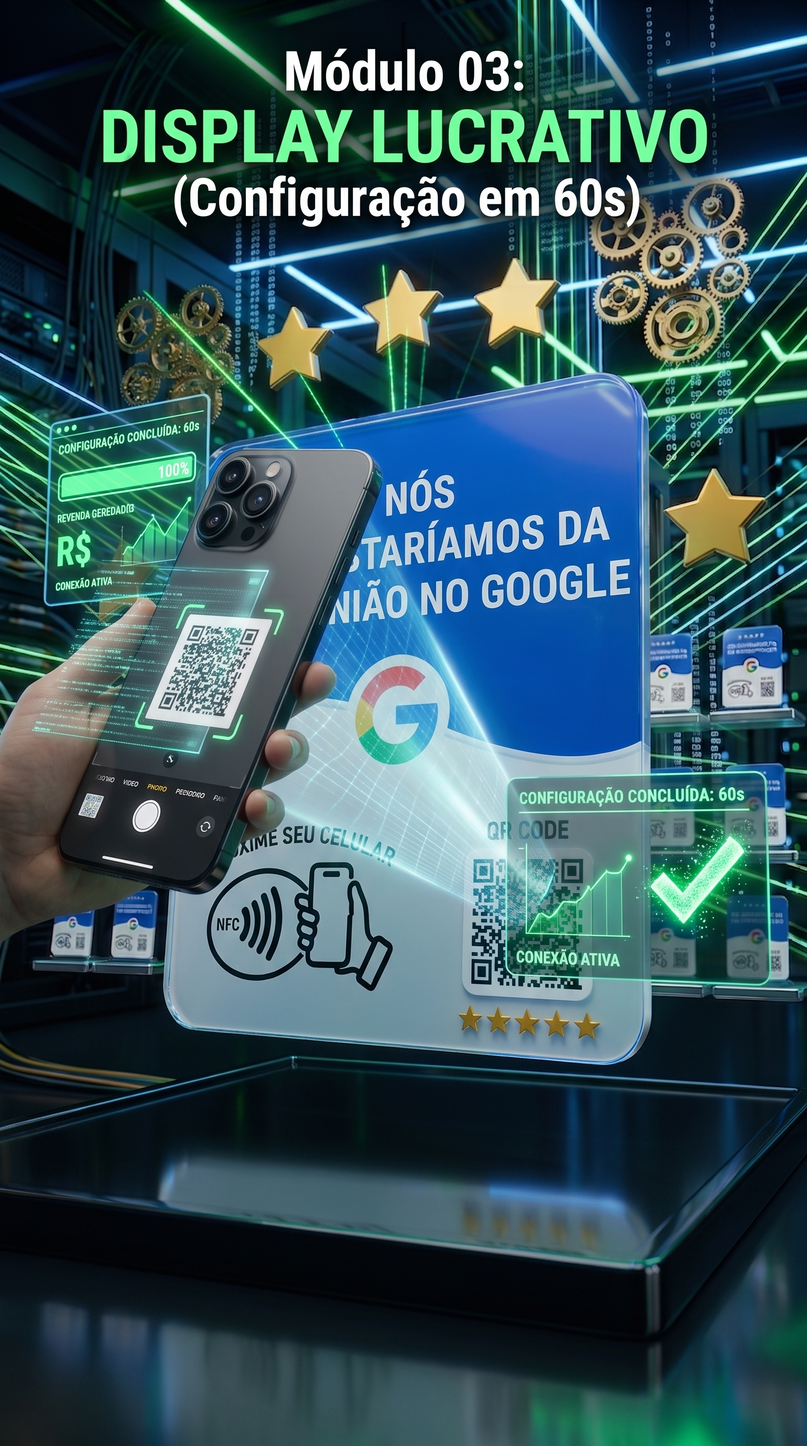
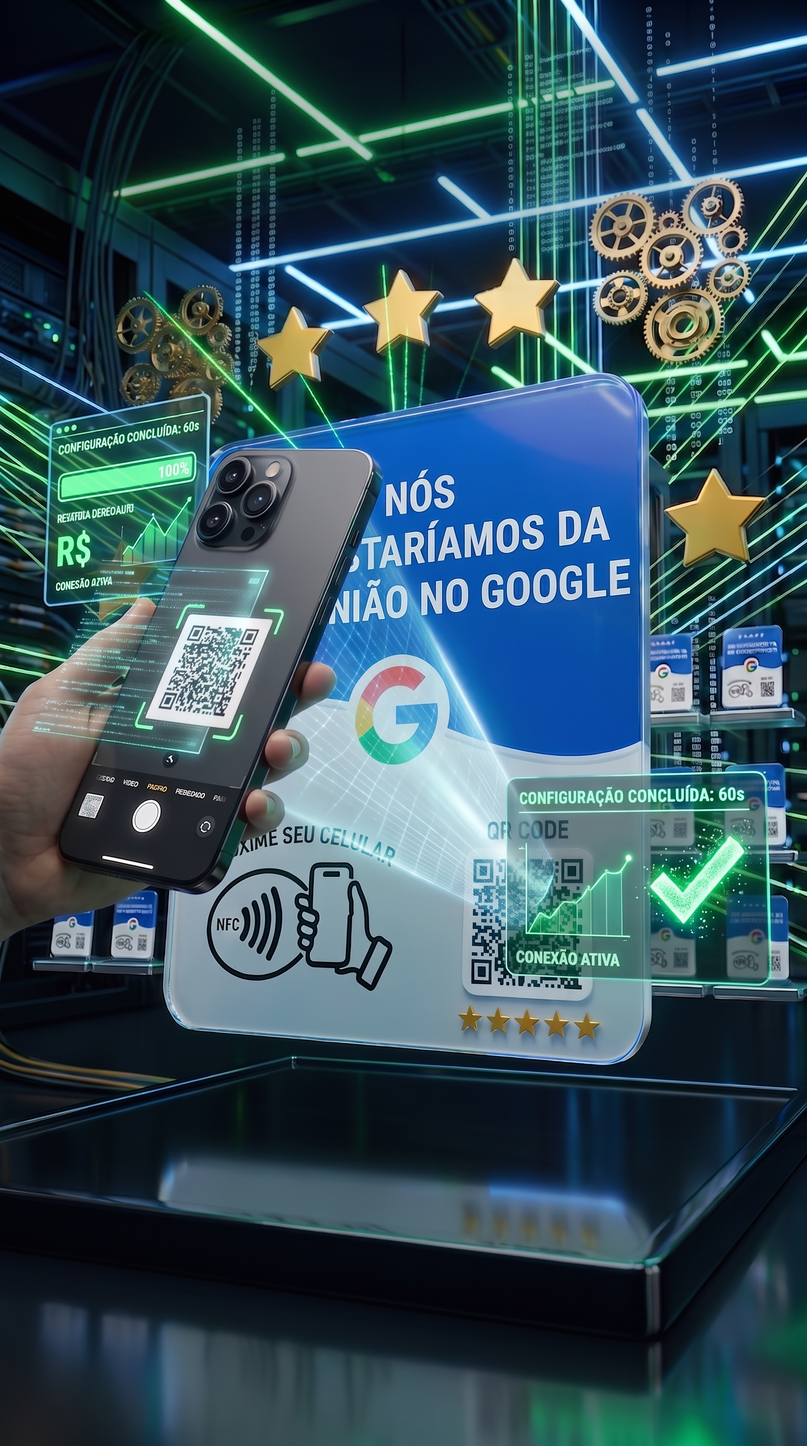
fix: atualiza caminho dos modulos com imagens sem texto

diff --git a/src/components/landing/ModulesCarousel.tsx b/src/components/landing/ModulesCarousel.tsx
@@ -7,7 +7,7 @@ const modulesData = [
     badge: 'Display Grátis',
     title: 'SEU DISPLAY DEMONSTRAÇÃO',
     desc: 'Explicando como funciona para receber seu display de demonstração.',
-    image: '/images/modulos/modulo-00.jpg',
+    image: '/images/modulos/modulo-00.jpg?v=clean',
   },
   {
     id: '01',
@@ -15,7 +15,7 @@ const modulesData = [
     badge: 'Mentalidade',
     title: 'SEM ISSO ESQUECE',
     desc: 'Nosso Manifesto de ouro para focar apenas no que gera riqueza e cortar distrações.',
-    image: '/images/modulos/modulo-01.jpg',
+    image: '/images/modulos/modulo-01.jpg?v=clean',
   },
   {
     id: '02',
@@ -23,7 +23,7 @@ const modulesData = [
     badge: 'O Coração do Método',
     title: 'SEUS 3MIL ESTÁ AQUI',
     desc: 'Você não vende "plaquinha". Domine a abordagem que fecha no balcão e saiba quanto cobrar.',
-    image: '/images/modulos/modulo-02.jpg',
+    image: '/images/modulos/modulo-02.jpg?v=clean',
   },
   {
     id: '03',
@@ -31,7 +31,7 @@ const modulesData = [
     badge: 'Operação Prática',
     title: 'DISPLAY LUCRATIVO',
     desc: 'Configurar o display no celular em 60 segundos e entregar com postura profissional.',
-    image: '/images/modulos/modulo-03.jpg',
+    image: '/images/modulos/modulo-03.jpg?v=clean',
   },
   {
     id: '04',
@@ -39,7 +39,7 @@ const modulesData = [
     badge: 'Tração Rápida',
     title: 'SUAS 10 PRIMEIRAS VENDAS',
     desc: 'O método prático F.A.C.I.L e o raio-X dos comércios mais fáceis de fechar.',
-    image: '/images/modulos/modulo-04.jpg',
+    image: '/images/modulos/modulo-04.jpg?v=clean',
   },
   {
     id: '05',
@@ -47,7 +47,7 @@ const modulesData = [
     badge: 'Blindagem de Mercado',
     title: 'DISPLAY NUNCA VAI SATURAR',
     desc: 'Os motivos reais para você entender a demanda infinita do comércio local.',
-    image: '/images/modulos/modulo-05.jpg',
+    image: '/images/modulos/modulo-05.jpg?v=clean',
   },
   {
     id: '06',
@@ -55,7 +55,7 @@ const modulesData = [
     badge: 'Acompanhamento',
     title: 'COMUNIDADE | NETWORKING',
     desc: 'Grupo oficial de membros + Mentoria ao vivo mensal para acelerar seus resultados.',
-    image: '/images/modulos/modulo-06.jpg',
+    image: '/images/modulos/modulo-06.jpg?v=clean',
   },
   {
     id: '08',
@@ -63,7 +63,7 @@ const modulesData = [
     badge: 'Ativação & Escala',
     title: 'DESAFIO 1K EM 7 DIAS',
     desc: 'O plano prático para colocar os primeiros R$ 1.000 limpos no bolso na primeira semana.',
-    image: '/images/modulos/modulo-08.jpg',
+    image: '/images/modulos/modulo-08.jpg?v=clean',
     highlight: true,
   },
 ];
